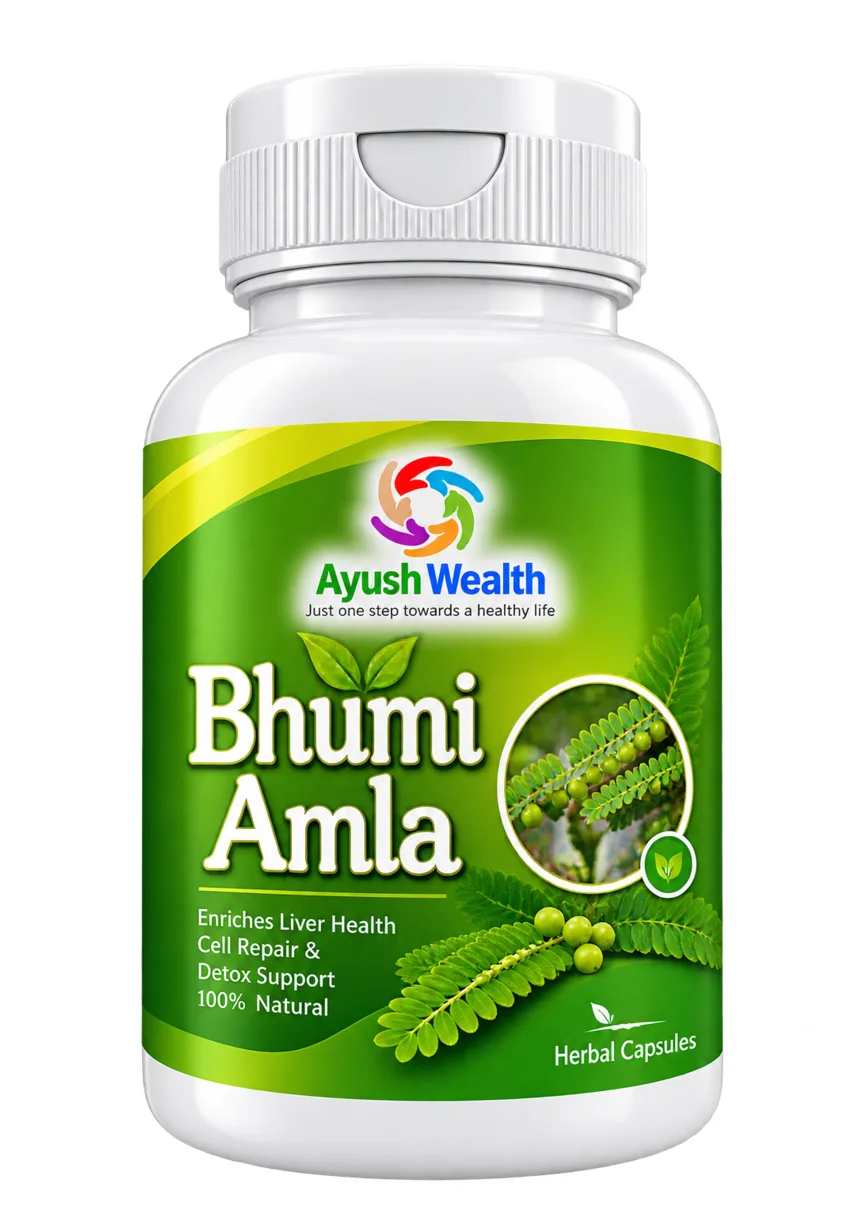
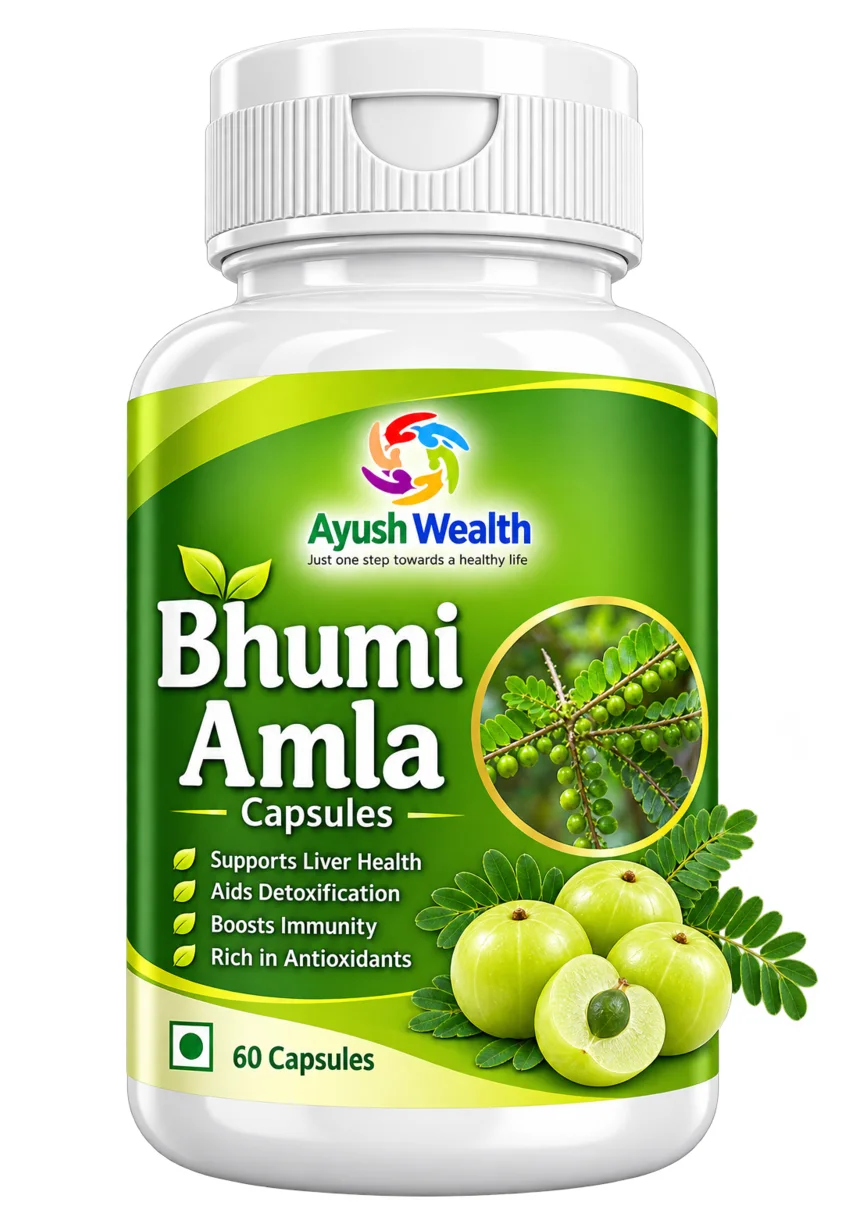
feat(products): batch 3 pack photos - 8 new primaries, 4 revised designs
New: Green Tea Tablet, Sarva Dhatu Pushti, Dento Strong, Flax Seeds,
Stevia Drop, Aloe Vera with Honey Amla Tulsi, Musheal Capsule, Renal
Fit Capsule. Newer label designs overwrite the batch-2 files for
Punarnava, Sea Buckthorn, Bhumi Amla and Detox Capsule (same URLs).

- brochure-data.ts + neon-setup.sql point at the new files; Syrups &
  Juices and Personal Care category cards follow their first products
- 6 replaced pdf-*.webp files deleted (pdf-p15-i1 kept: still used by
  A2 Desi Ghee); Green Tea duplicate upload used once
- Neon migration regenerated from the catalogue: one rerun-safe
  48-product update; verification expects 48/48

diff --git a/src/lib/brochure-data.ts b/src/lib/brochure-data.ts
@@ -57,7 +57,7 @@ interface CatalogRow {
 }
 
 const rows: CatalogRow[] = [
-  { name: 'Aloe Vera with Honey, Amla & Tulsi', category: 'cat_syrups_juices', packs: [['1 L', 585]], page: 4, image: 'pdf-p4-i9.webp', ingredients: 'Aloe vera, honey, amla and tulsi.', formulation: AyurvedicFormulation.SYRUP },
+  { name: 'Aloe Vera with Honey, Amla & Tulsi', category: 'cat_syrups_juices', packs: [['1 L', 585]], page: 4, image: 'aloe-vera-with-honey-amla-tulsi-pack.webp', ingredients: 'Aloe vera, honey, amla and tulsi.', formulation: AyurvedicFormulation.SYRUP },
   { name: 'Aloe Vera Juice', category: 'cat_syrups_juices', packs: [['1 L', 380]], page: 4, image: 'pdf-p4-i5.webp', ingredients: 'Refer to the product label.', formulation: AyurvedicFormulation.SYRUP },
   { name: 'Amrit Ras', category: 'cat_syrups_juices', packs: [['200 ml', 160], ['1 L', 480]], page: 6, image: 'pdf-p6-i5.webp', ingredients: 'Giloy ras, papita, tulsi, adusa, darunapushpi, nagarmotha, bhramhi and harad.', formulation: AyurvedicFormulation.SYRUP },
   { name: 'Anti Diabetes', category: 'cat_syrups_juices', packs: [['1 L', 540]], page: 7, image: 'pdf-p7-i4.webp', ingredients: 'Gudmar, bhumi amla, punarnava, makoy, kasni, jamun, dalchini, vijaysar, chirata, kutki and ashwagandha.', formulation: AyurvedicFormulation.SYRUP },
@@ -74,17 +74,17 @@ const rows: CatalogRow[] = [
   { name: 'Chyawanprash Kesar Yukta', category: 'cat_immunity_rasayana', packs: [['1 kg', 880]], page: 15, image: 'pdf-p15-i3.webp', formulation: AyurvedicFormulation.AWALEHA },
   { name: 'Curcumin Capsule', category: 'cat_capsules', packs: [['60 capsules', 980]], page: 13, image: 'curcumin-capsule-pack.webp', formulation: AyurvedicFormulation.CAPSULE },
   { name: 'Cumin Ark', category: 'cat_arks_drops', packs: [['30 ml', 160]], page: 3, image: 'pdf-p3-i1.webp', formulation: AyurvedicFormulation.KWATH },
-  { name: 'Dento Strong', category: 'cat_personal_care', packs: [['100 g', 160]], page: 14, image: 'pdf-p15-i4.webp', formulation: AyurvedicFormulation.OTHER },
+  { name: 'Dento Strong', category: 'cat_personal_care', packs: [['100 g', 160]], page: 14, image: 'dento-strong-pack.webp', formulation: AyurvedicFormulation.OTHER },
   { name: 'Detox Capsule', category: 'cat_capsules', packs: [['60 capsules', 450]], page: 9, image: 'detox-capsule-pack.webp', formulation: AyurvedicFormulation.CAPSULE },
   { name: 'Detox Syrup', category: 'cat_syrups_juices', packs: [['500 ml', 450]], page: 13, image: 'detox-syrup-pack.webp', formulation: AyurvedicFormulation.SYRUP },
   { name: 'Dhamasa Capsule', category: 'cat_capsules', packs: [['60 capsules', 540]], page: 10, image: 'dhamasa-capsule-pack.webp', formulation: AyurvedicFormulation.CAPSULE },
   { name: 'Eye Care', category: 'cat_daily_wellness', packs: [['200 ml', 180], ['500 ml', 430], ['1 L', 850]], page: 15, image: 'eye-care-pack.webp', formulation: AyurvedicFormulation.SYRUP },
-  { name: 'Flax Seeds', category: 'cat_daily_wellness', packs: [['400 g', 180]], page: 11, image: 'pdf-p15-i6.webp', formulation: AyurvedicFormulation.RAW_HERB },
+  { name: 'Flax Seeds', category: 'cat_daily_wellness', packs: [['400 g', 180]], page: 11, image: 'flax-seeds-pack.webp', formulation: AyurvedicFormulation.RAW_HERB },
   { name: 'Flax Oil', category: 'cat_herbal_oils', packs: [['100 ml', 180]], page: 9, image: 'flax-oil-pack.webp', formulation: AyurvedicFormulation.TAILA },
   { name: 'Fat Melter', category: 'cat_syrups_juices', packs: [['1 L', 1050]], page: 9, image: 'fat-melter-pack.webp', formulation: AyurvedicFormulation.SYRUP },
   { name: 'Gastro Sanjivani', category: 'cat_syrups_juices', packs: [['500 ml', 380], ['200 ml', 160]], page: 5, image: 'pdf-p5-i6.webp', ingredients: 'Amaltas, nagarmotha, methi, saunf, gulab patti, mulethi, triphala, giloy, aloe vera, nishoth, sanai and indrayan.', formulation: AyurvedicFormulation.SYRUP },
   { name: 'Grape Seed Extract', category: 'cat_capsules', packs: [['60 capsules', 715]], page: 15, image: 'grape-seed-extract-pack.webp', formulation: AyurvedicFormulation.CAPSULE },
-  { name: 'Green Tea Tablet', category: 'cat_capsules', packs: [['60 tablets', 480]], page: 12, image: 'pdf-p15-i4.webp', formulation: AyurvedicFormulation.TABLET },
+  { name: 'Green Tea Tablet', category: 'cat_capsules', packs: [['60 tablets', 480]], page: 12, image: 'green-tea-tablet-pack.webp', formulation: AyurvedicFormulation.TABLET },
   { name: 'Gokhru Capsule', category: 'cat_capsules', packs: [['60 capsules', 540]], page: 13, image: 'gokhru-capsule-pack.webp', formulation: AyurvedicFormulation.CAPSULE },
   { name: 'Gymnema Capsule', category: 'cat_capsules', packs: [['60 capsules', 540]], page: 13, image: 'gymnema-capsule-pack.webp', formulation: AyurvedicFormulation.CAPSULE },
   { name: 'Gau Amrit', category: 'cat_syrups_juices', packs: [['200 ml', 160], ['500 ml', 380]], page: 8, image: 'gau-amrit-pack.webp', formulation: AyurvedicFormulation.SYRUP },
@@ -108,7 +108,7 @@ const rows: CatalogRow[] = [
   { name: 'Liver Reactivator', category: 'cat_syrups_juices', packs: [['500 ml', 380], ['200 ml', 160]], page: 5, image: 'pdf-p5-i1.webp', ingredients: 'Bhringraj, kasni, sarpunkha, bhumi amla, aloe vera, haritaki, punarnava, kalmegh, giloy, kutki, papaya, saunth, ajwain, marich and syonak.', formulation: AyurvedicFormulation.SYRUP },
   { name: 'Memory Booster', category: 'cat_syrups_juices', packs: [['1 L', 580], ['200 ml', 160]], page: 7, image: 'pdf-p7-i3.webp', ingredients: 'Brahmi, semal, niacin, shankhpushpi, yashtimadhu, ashwagandha, jatamasi, vach, tagar, malkangni and sarpgandha.', formulation: AyurvedicFormulation.SYRUP },
   { name: 'Miracle Roots', category: 'cat_syrups_juices', packs: [['500 ml', 580]], page: 7, image: 'pdf-p7-i1.webp', formulation: AyurvedicFormulation.SYRUP },
-  { name: 'Musheal Capsule', category: 'cat_capsules', packs: [['60 capsules', 630]], page: 14, image: 'pdf-p14-i6.webp', formulation: AyurvedicFormulation.CAPSULE },
+  { name: 'Musheal Capsule', category: 'cat_capsules', packs: [['60 capsules', 630]], page: 14, image: 'musheal-capsule-pack.webp', formulation: AyurvedicFormulation.CAPSULE },
   { name: 'Migraine Care', category: 'cat_syrups_juices', packs: [['200 ml', 190], ['500 ml', 460], ['1 L', 920]], page: 10, image: 'migraine-care-pack.webp', formulation: AyurvedicFormulation.SYRUP },
   { name: 'Neem Oil', category: 'cat_herbal_oils', packs: [['100 ml', 180]], page: 11, image: 'neem-oil-pack.webp', formulation: AyurvedicFormulation.TAILA },
   { name: 'Neuro Care', category: 'cat_syrups_juices', packs: [['500 ml', 450]], page: 8, image: 'neuro-care-pack.webp', formulation: AyurvedicFormulation.SYRUP },
@@ -120,19 +120,19 @@ const rows: CatalogRow[] = [
   { name: 'Panch Tulsi', category: 'cat_arks_drops', packs: [['30 ml', 120]], page: 3, image: 'pdf-p3-i3.webp', formulation: AyurvedicFormulation.OTHER },
   { name: 'Power Tulsi', category: 'cat_arks_drops', packs: [['25 ml', 180]], page: 3, image: 'pdf-p3-i7.webp', formulation: AyurvedicFormulation.OTHER },
   { name: 'PR Drops', category: 'cat_arks_drops', packs: [['25 ml', 190]], page: 3, image: 'pdf-p3-i4.webp', ingredients: 'Ashwagandha, ginseng, safed musli, maca root, horny goat weed, tongkat ali, akarkara, cordyceps and honey.', formulation: AyurvedicFormulation.OTHER },
-  { name: 'Renal Fit Capsule', category: 'cat_capsules', packs: [['60 capsules', 540]], page: 11, image: 'pdf-p11-i6.webp', formulation: AyurvedicFormulation.CAPSULE },
+  { name: 'Renal Fit Capsule', category: 'cat_capsules', packs: [['60 capsules', 540]], page: 11, image: 'renal-fit-capsule-pack.webp', formulation: AyurvedicFormulation.CAPSULE },
   { name: 'Resurrection Capsule', category: 'cat_capsules', packs: [['60 capsules', 1890]], page: 14, image: 'resurrection-capsule-pack.webp', formulation: AyurvedicFormulation.CAPSULE },
   { name: 'Saunf Ark', category: 'cat_arks_drops', packs: [['30 ml', 160]], page: 3, image: 'pdf-p3-i2.webp', formulation: AyurvedicFormulation.KWATH },
   { name: 'Skin Ark', category: 'cat_syrups_juices', packs: [['500 ml', 580]], page: 4, image: 'pdf-p4-i6.webp', formulation: AyurvedicFormulation.SYRUP },
   { name: 'Skin Oil', category: 'cat_herbal_oils', packs: [['100 ml', 480]], page: 4, image: 'pdf-p4-i6.webp', formulation: AyurvedicFormulation.TAILA },
   { name: 'Stone Away', category: 'cat_syrups_juices', packs: [['200 ml', 160]], page: 6, image: 'pdf-p6-i4.webp', formulation: AyurvedicFormulation.SYRUP },
   { name: 'Stri Sanjivani', category: 'cat_syrups_juices', packs: [['1 L', 480], ['200 ml', 160]], page: 7, image: 'pdf-p7-i5.webp', formulation: AyurvedicFormulation.SYRUP },
-  { name: 'Sarva Dhatu Pushti', category: 'cat_immunity_rasayana', packs: [['400 g', 1170]], page: 15, image: 'pdf-p15-i1.webp', formulation: AyurvedicFormulation.OTHER },
+  { name: 'Sarva Dhatu Pushti', category: 'cat_immunity_rasayana', packs: [['400 g', 1170]], page: 15, image: 'sarva-dhatu-pushti-pack.webp', formulation: AyurvedicFormulation.OTHER },
   { name: 'Sea Buckthorn Capsule', category: 'cat_capsules', packs: [['60 capsules', 760]], page: 13, image: 'sea-buckthorn-capsule-pack.webp', formulation: AyurvedicFormulation.CAPSULE },
   { name: 'Shatawari Capsule', category: 'cat_capsules', packs: [['60 capsules', 715]], page: 12, image: 'shatawari-capsule-pack.webp', formulation: AyurvedicFormulation.CAPSULE },
   { name: 'Silymarine Milk Thistle Capsule', category: 'cat_capsules', packs: [['60 capsules', 720]], page: 14, image: 'silymarine-milk-thistle-capsule-pack.webp', formulation: AyurvedicFormulation.CAPSULE },
   { name: 'Spirulina Capsule', category: 'cat_capsules', packs: [['60 capsules', 715]], page: 13, image: 'spirulina-capsule-pack.webp', formulation: AyurvedicFormulation.CAPSULE },
-  { name: 'Stevia Drop', category: 'cat_arks_drops', packs: [['25 ml', 180]], page: 15, image: 'pdf-p3-i5.webp', formulation: AyurvedicFormulation.OTHER },
+  { name: 'Stevia Drop', category: 'cat_arks_drops', packs: [['25 ml', 180]], page: 15, image: 'stevia-drop-pack.webp', formulation: AyurvedicFormulation.OTHER },
   { name: 'Sugar Normal', category: 'cat_syrups_juices', packs: [['500 ml', 585]], page: 7, image: 'pdf-p7-i2.webp', ingredients: 'Shyam tulsi, papaya leaf, periwinkle leaf, wheat leaf, noni fruit, Indian rhubarb, turmeric, ginger, punarnava root, lemon chaff, ashwagandha, mulethi, kalonji seed, kachnar, dalchini and green tea.', formulation: AyurvedicFormulation.SYRUP },
   { name: 'Thyro Booster', category: 'cat_syrups_juices', packs: [['500 ml', 480]], page: 7, image: 'pdf-p7-i6.webp', formulation: AyurvedicFormulation.SYRUP },
   { name: 'Triphala Ras', category: 'cat_syrups_juices', packs: [['500 ml', 270]], page: 5, image: 'pdf-p5-i3.webp', ingredients: 'Amla, behra and harad.', formulation: AyurvedicFormulation.SYRUP },

diff --git a/DEPLOY.md b/DEPLOY.md
@@ -40,7 +40,7 @@ Pick ONE path (never both on the same database):
   balance of 100 units for every brochure pack variant, with matching
   inventory-ledger rows; its marker makes a duplicate run safe and prevents
   later sales/manual corrections from being reset),
-  `20261025_replace_primary_product_images.sql` (points 40 products'
+  `20261025_replace_primary_product_images.sql` (points 48 products'
   primary photos at the new owner-supplied pack images
   `/products/<slug>-pack.webp`; run it only AFTER the deployment that
   contains those image files is live).
